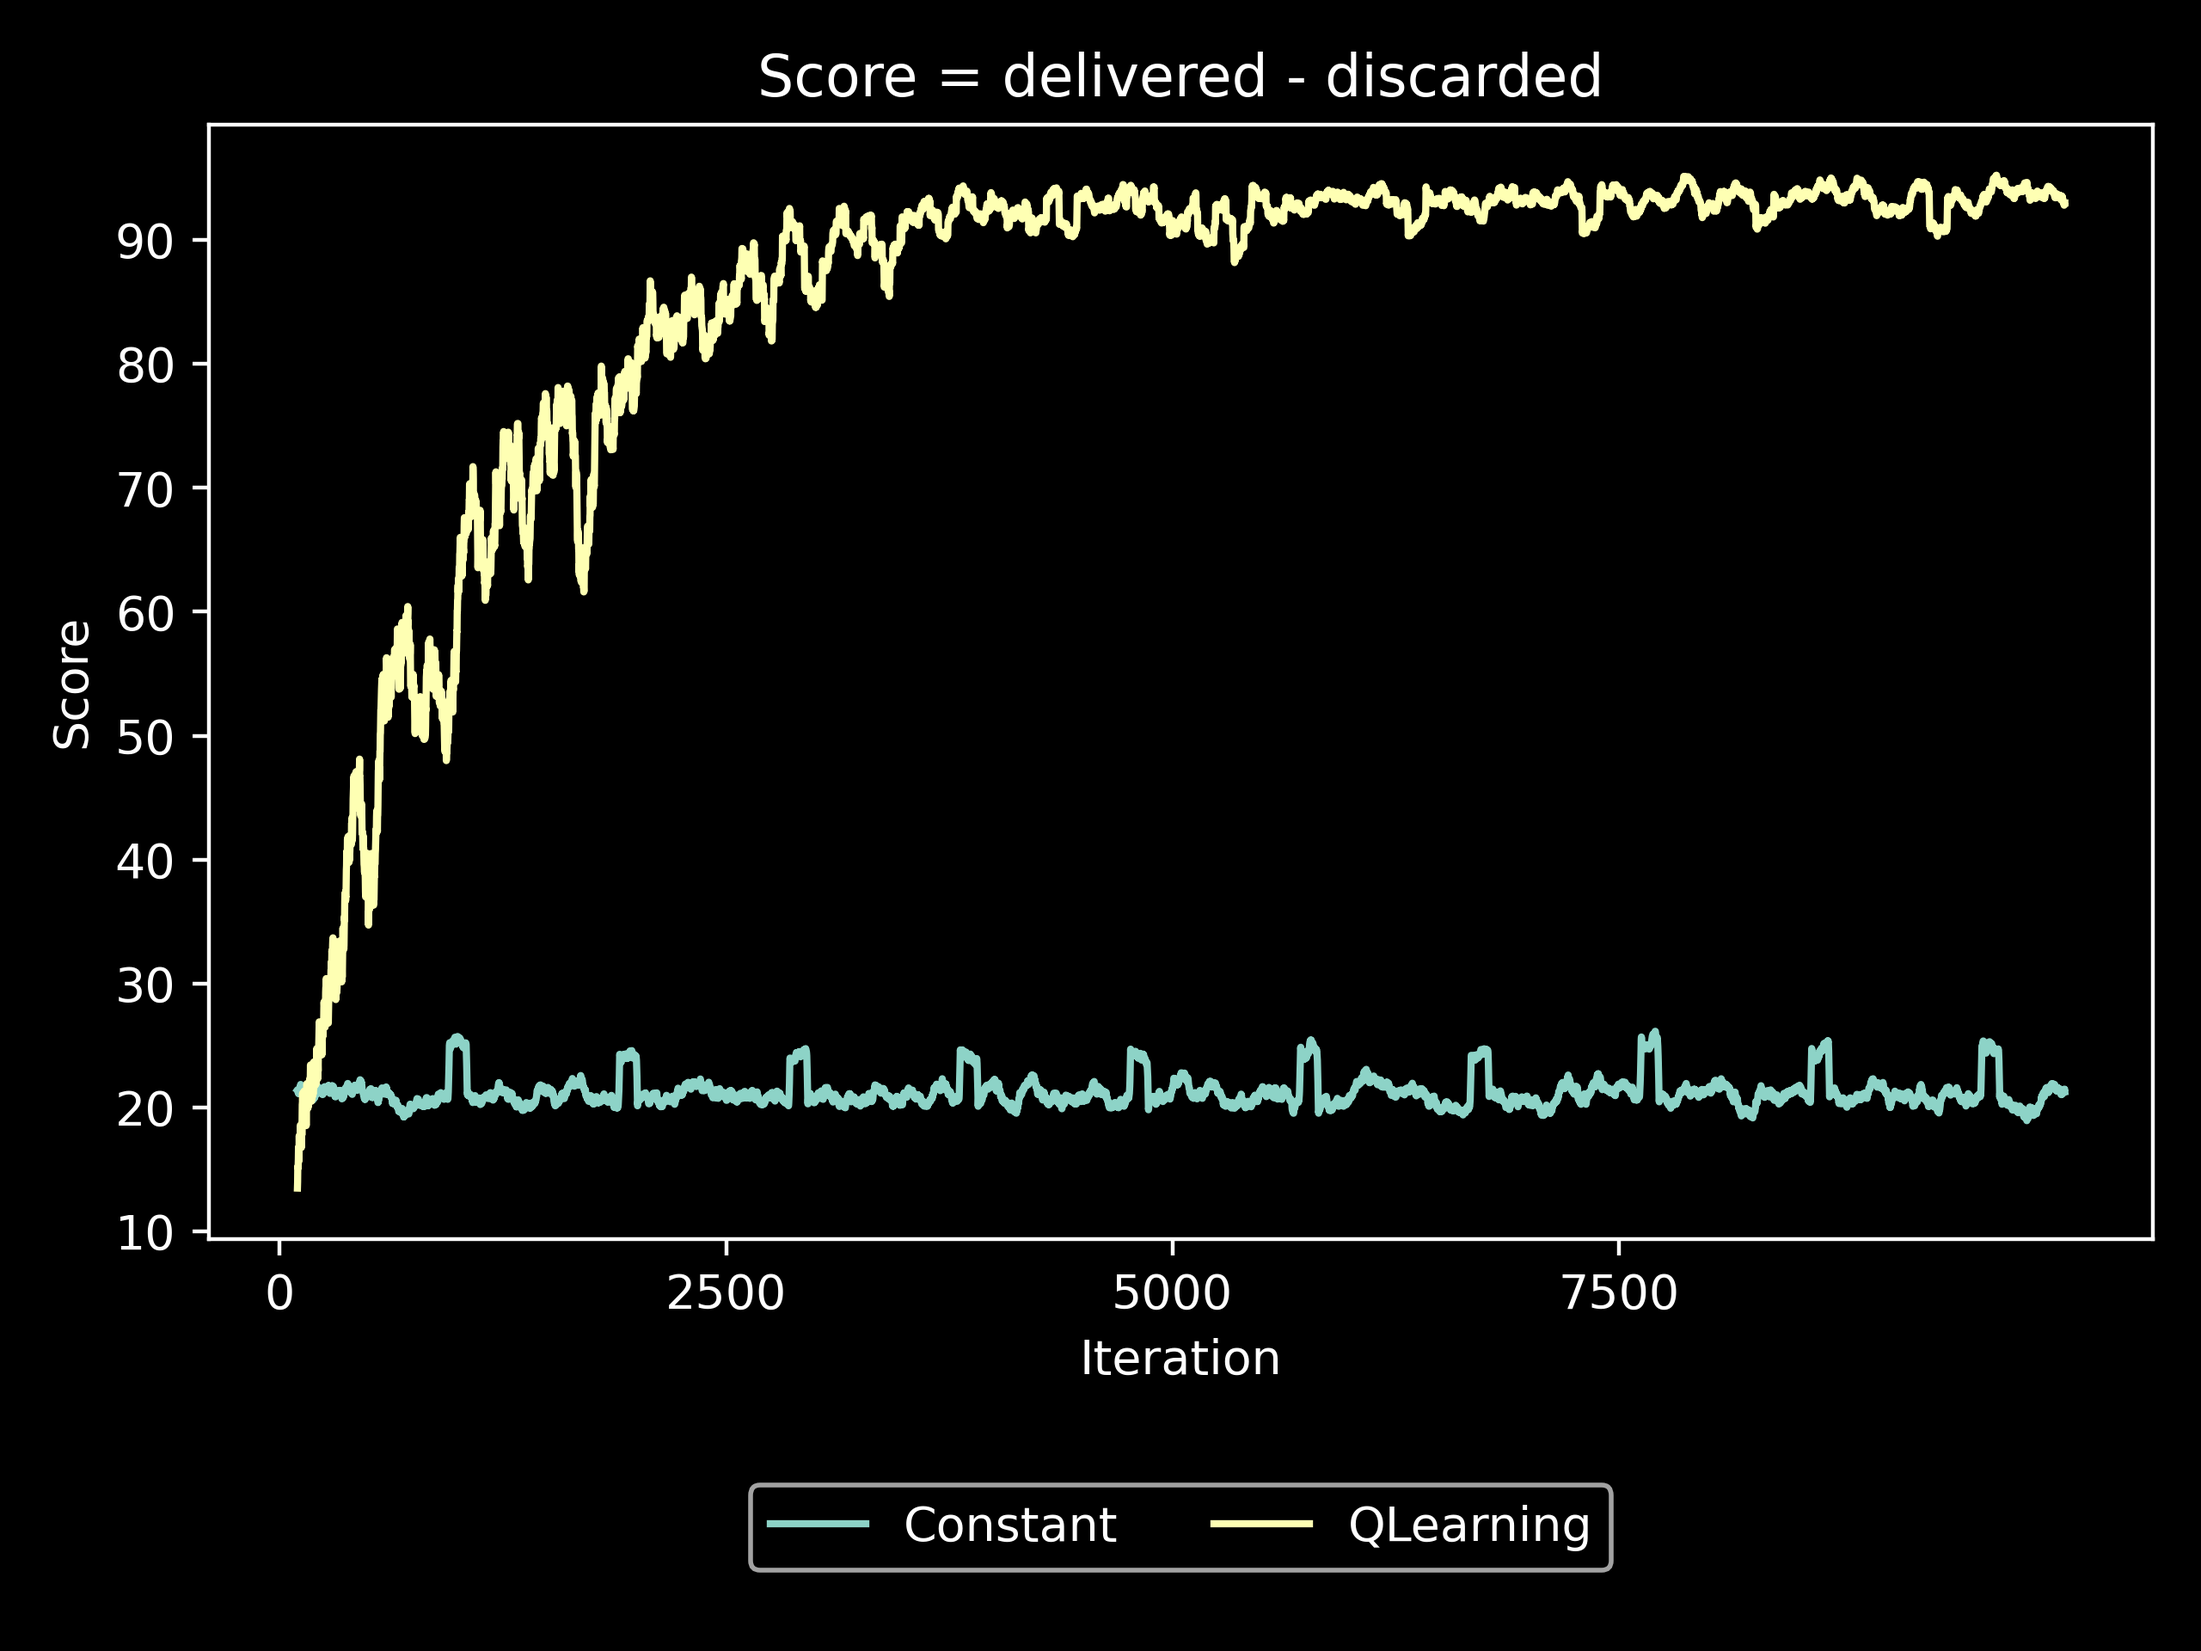
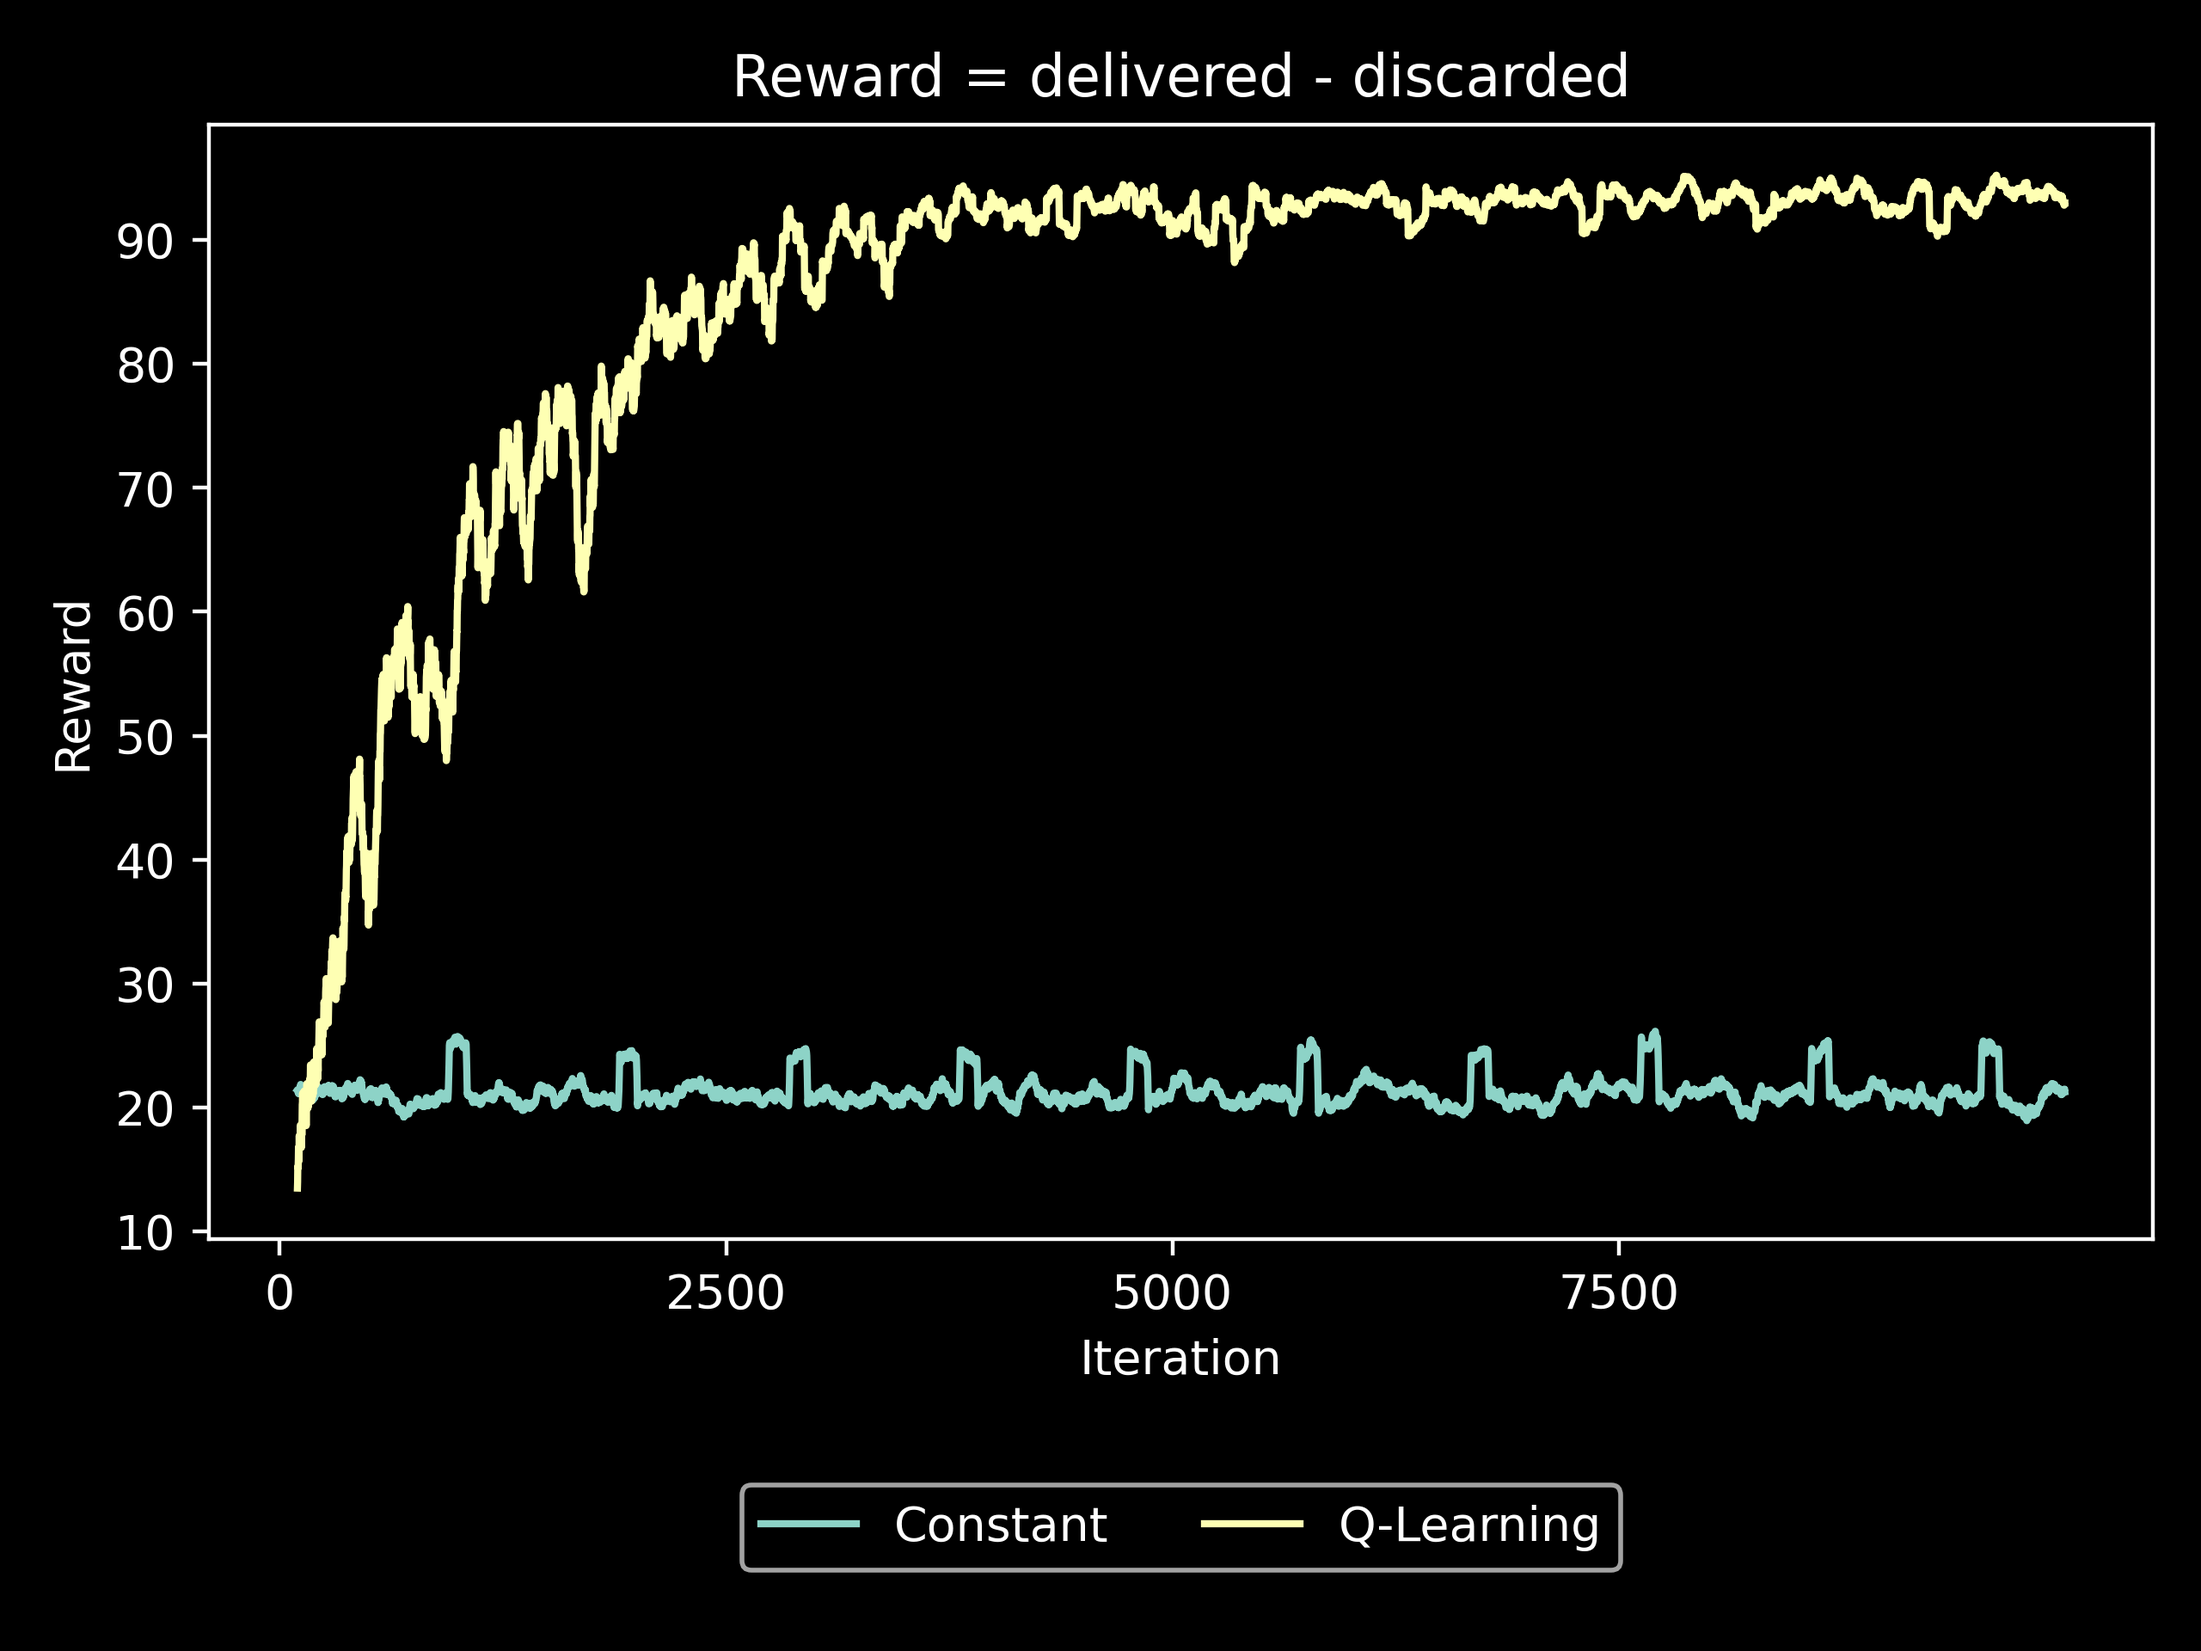
Add score plots.

diff --git a/results/plot.py b/results/plot.py
@@ -7,8 +7,8 @@ plt.style.use('dark_background')
 constant_df = pd.read_csv("data/constantStrategy.csv")
 qlearning_df = pd.read_csv("data/qLearningStrategy.csv")
 
-plt.title('Score = delivered - discarded')
-plt.ylabel('Score')
+plt.title('Reward = delivered - discarded')
+plt.ylabel('Reward')
 plt.xlabel('Iteration')
 
 constant_rolling = constant_df.rolling(window=100).mean()
@@ -21,7 +21,7 @@ plt.xticks(x_ticks)
 plt.plot(constant_rolling["score"])
 plt.plot(qlearning_rolling["score"])
 
-plt.legend(['Constant', 'QLearning'], loc='upper center', bbox_to_anchor=(0.5, -0.20), ncol=2)
+plt.legend(['Constant', 'Q-Learning'], loc='upper center', bbox_to_anchor=(0.5, -0.20), ncol=2)
 plt.tight_layout(pad=1)
 
 plt.savefig(f"scores.png", dpi=400)
